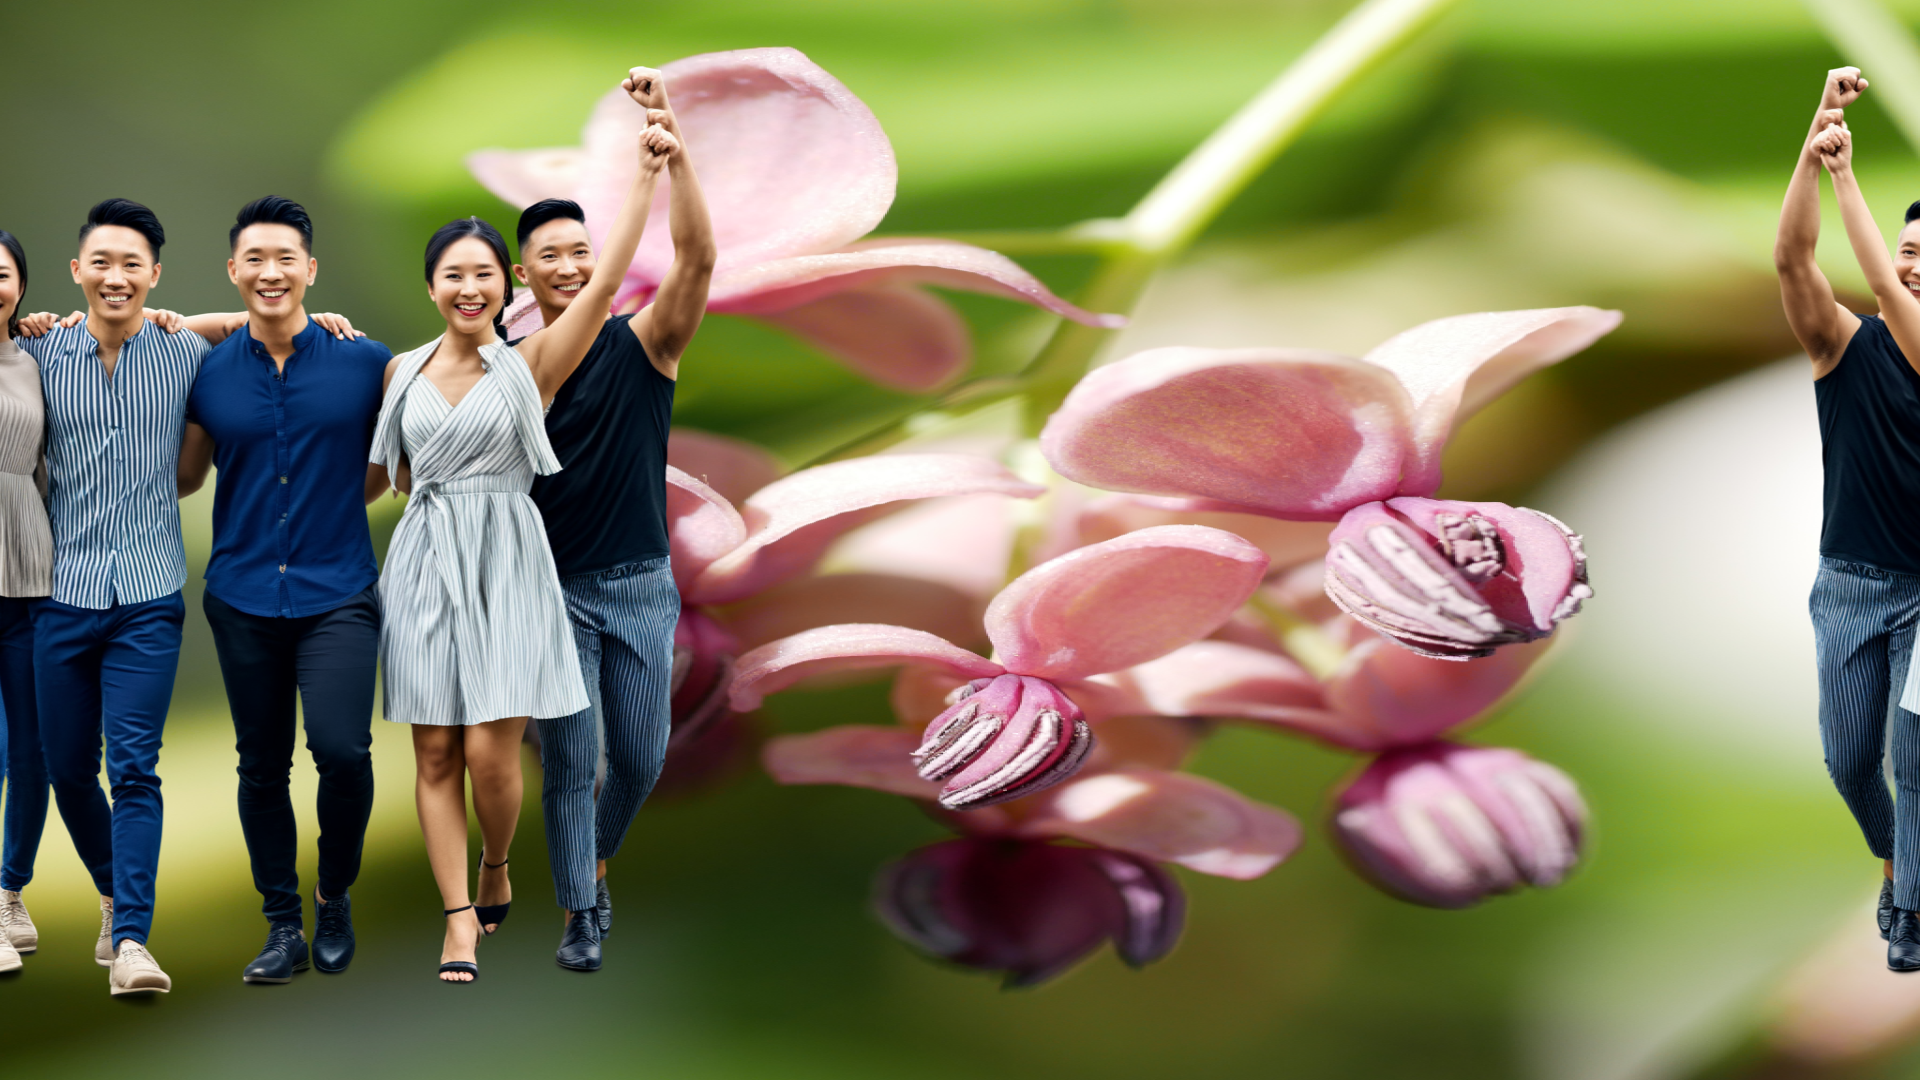
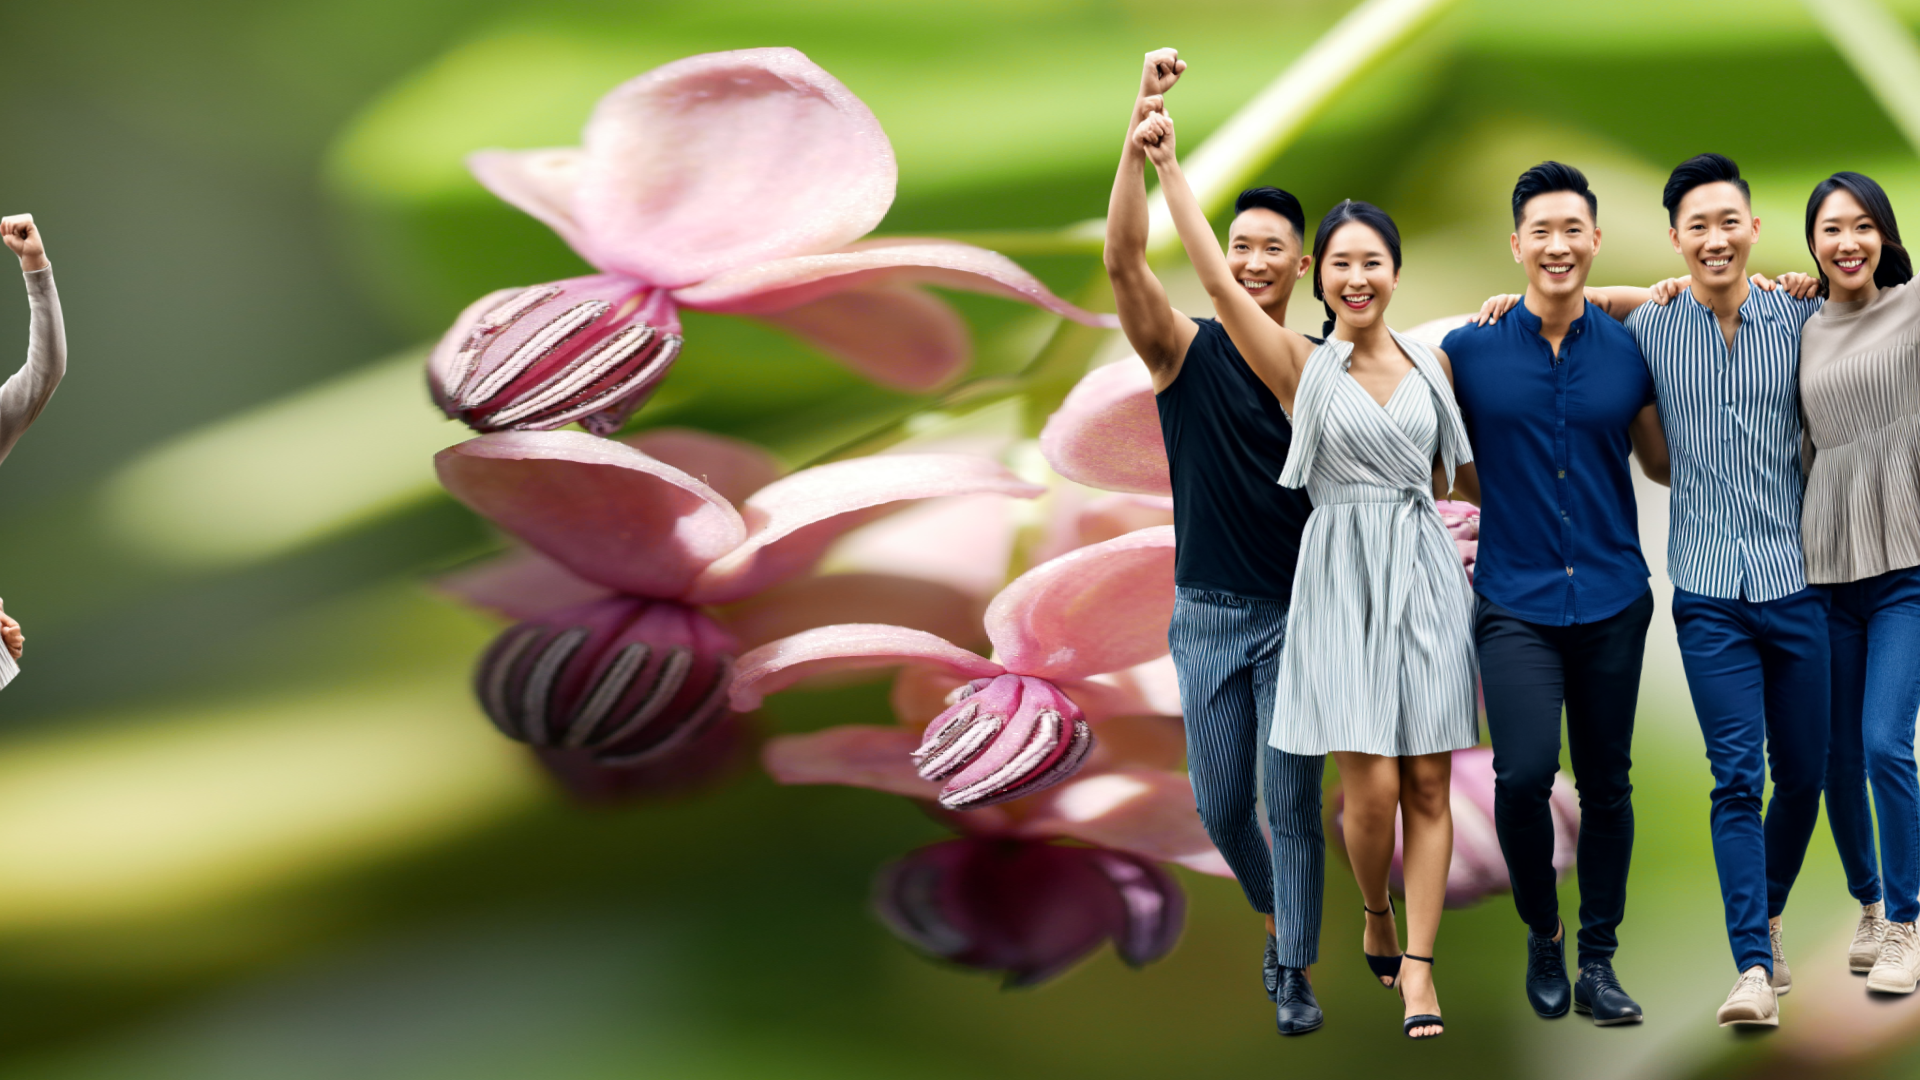
make augmentation even better

diff --git a/merge_images.py b/merge_images.py
@@ -3,19 +3,27 @@ import argparse
 import albumentations as A
 
 
-def apply_transformations(image):
-    height, width = image.shape[
-        :2
-    ]  # Extracting the height and width from the overlay image
+def apply_scale_and_move(image):
     transform = A.Compose(
         [
             A.ShiftScaleRotate(
-                shift_limit_x=(-1.0, 1.0),
+                shift_limit_x=(-0.5, 0.5),
                 shift_limit_y=(0, 0),
-                scale_limit=0.0,
-                rotate_limit=0,
-                p=1.0,
+                scale_limit=(0.0, 0.3),
+                border_mode=cv2.BORDER_WRAP,
+                rotate_limit=(-15, 15),
+                p=0.7,
             )
+        ]
+    )
+    return transform(image=image)["image"]
+
+
+def apply_noise(image):
+    transform = A.Compose(
+        [
+            A.MotionBlur(blur_limit=(3, 15), p=0.5),
+            A.GaussNoise(var_limit=(10, 50), p=0.5),
         ]
     )
     return transform(image=image)["image"]
@@ -30,14 +38,19 @@ def merge_images(background_path, overlay_path, output_path, width, height):
 
     # Read the overlay image with alpha channel
     overlay = cv2.imread(overlay_path, cv2.IMREAD_UNCHANGED)
-    overlay = expand_image_borders_rgba(overlay, width, height)
 
     # Ensure overlay has an alpha channel
     if overlay.shape[2] < 4:
         raise Exception("Overlay image does not have an alpha channel.")
 
     # Apply transformations to the overlay
-    overlay = apply_transformations(overlay)
+    overlay = expand_image_borders_rgba(overlay, width, height)
+    overlay = apply_scale_and_move(overlay)
+
+    # store ground truth
+    cv2.imwrite("gt.png", overlay)
+
+    overlay = apply_noise(overlay)
 
     # Overlay placement on the resized background
     x_offset = (width - overlay.shape[1]) // 2
